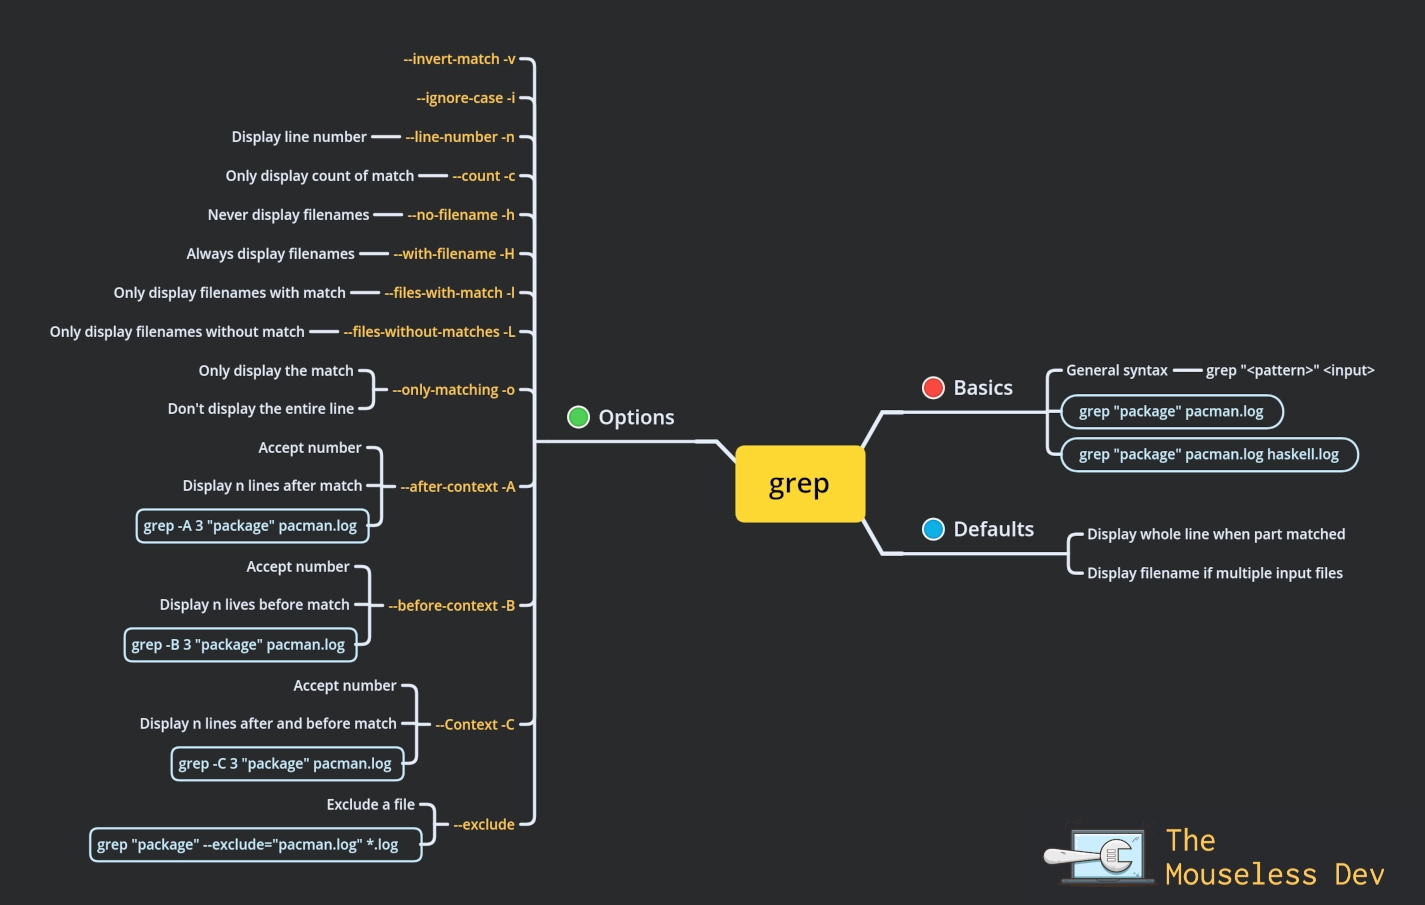
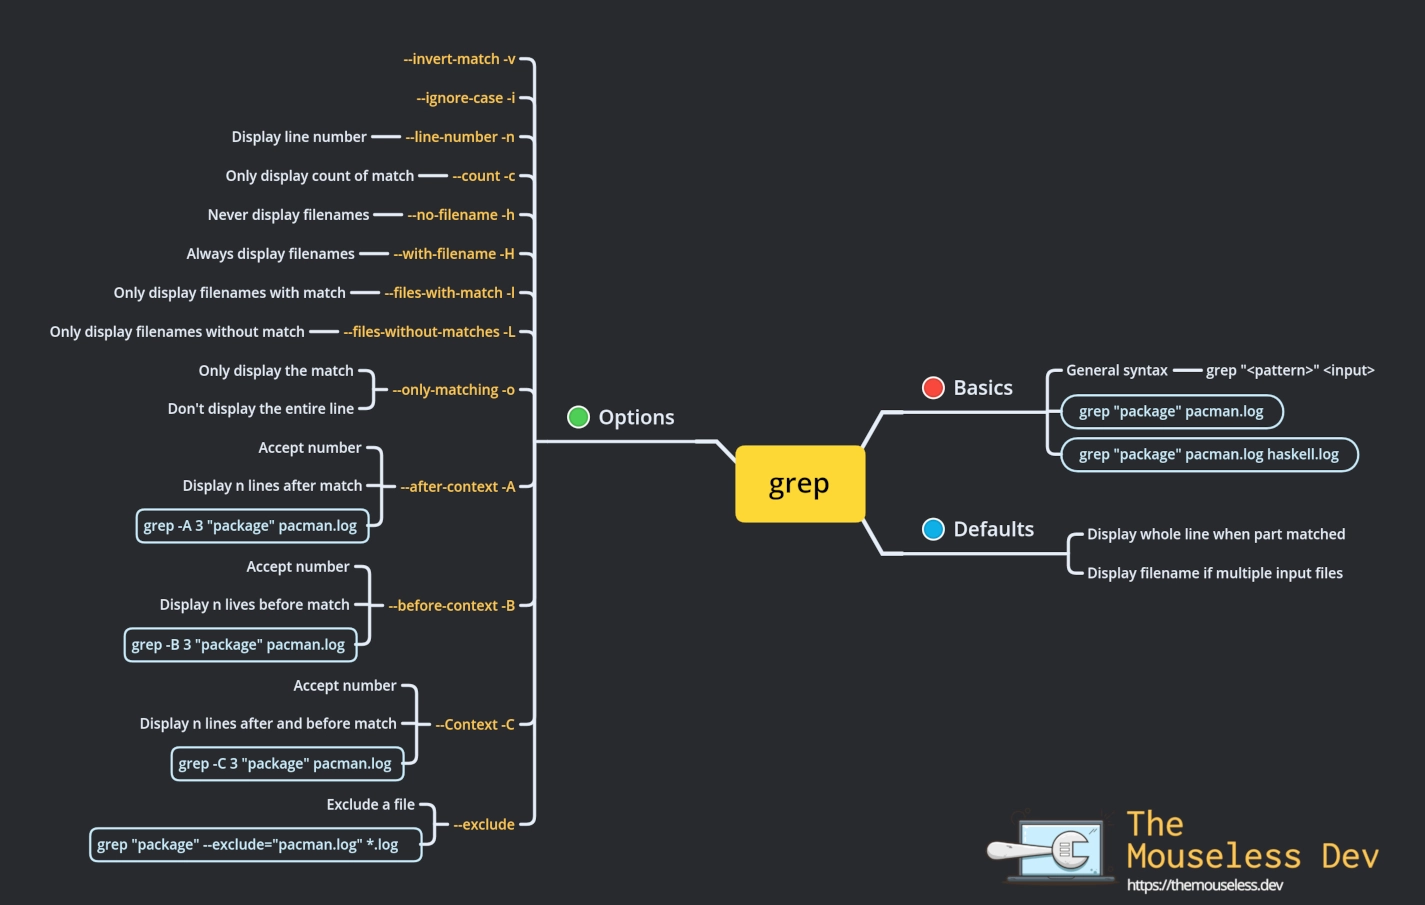
Adjust grep article

Changed region(s): [[0.6793, 0.8972, 0.9881, 0.9901]]

diff --git a/archives/cross_posting/dev.to/grep-basics-mouseless.md b/archives/cross_posting/dev.to/grep-basics-mouseless.md
@@ -1,0 +1,266 @@
+---
+title: The Basics of grep - Filtering All The Content You Want
+published: false
+description: The basics of grep : output line numbers, filenames, number of matches, or even inverting matches... and more!
+tags: #mouseless #commandline #productivity
+cover_image: https://themouseless.dev/images/2021/grep/grep.png
+canonical_url: https://themouseless.dev/posts/grep-basics-mouseless/
+------
+
+The tool grep is a fantastic CLI (Command-Line Interface) allowing you to filter any *pattern* for a given *input*, including a file.
+
+To know if you have GNU grep, you can run in your terminal `grep --version`. If you don't have GNU grep, I would recommend installing it.
+
+This article is a summary of the following video I made. I would recommend you to watch it first, it's more complete with many examples and exercises:
+
+{% youtube SEkdPKcws3s %}
+
+If you find the videos I have on this channel helpful, don't hesitate to subscribe and to like them. It would then appear to other Youtubers to help even more!
+
+I also recommend you to: 
+
+1. Download [these files](https://github.com/Phantas0s/mouseless-dev-youtube/tree/master/01_grep)
+2. Fire up your beautiful shell
+3. Try each command you'll see in this article. 
+
+You won't learn much if you only read (or watch a video) passively.
+
+In this article we'll see together how to:
+
+* Colorize grep output
+* Case insensitive patters
+* Output lines with pattern matched
+* Output lines with pattern not matched
+* Output only the pattern matched
+* Output lines numbers
+* Output the match count
+* Hiding filenames
+* Always output filenames
+* Only output filenames
+* Only output filenames without matches
+* Output lines after the match
+* Output lines before the match
+* Output lines before and after the match
+* Excluding files
+* Piping grep
+* Summary: a mindmap of grep
+* Using grep in practice
+
+## Colors!
+
+I would advise you to colorize the output of grep using the option `--color` as following: 
+
+```bash
+grep --color=auto
+```
+
+But it's a pain to use this option each time you use grep. You can define an alias to make grep always colorful:
+
+```bash
+alias grep="grep --color=auto"
+```
+
+It's now a firework machine.
+
+## Output Lines With Pattern Matched
+
+Here's the general way to use grep:
+
+```bash
+grep "<pattern>" <input>
+```
+
+The `<pattern>` is a regular expression and the `<input>` can be what you enter in your terminal or a file. For example:
+
+```bash
+grep "package" pacman.log
+```
+
+You'll see this output:
+
+![Displaying lines with pattern matched](https://themouseless.dev/images/2021/grep/01_displaying_lines_pattern_matched.webp)
+
+You can see that the pattern `package` is part of these two lines; that's why they are output. Incredible! It would be nice if we could do that in our daily life. I already know what words I would filter.
+
+Note that the pattern wouldn't be colorized without the option `--color` set to `auto` as we saw above.
+
+## Output Lines With Pattern Not Matched
+
+If you want to in`v`ert the match, that is, only output the lines which *don't match* the pattern, you can use the option `-v` as follows:
+
+```bash
+grep -v "package" pacman.log
+```
+
+This time, you'll output all the file except the two lines containing the pattern `package`.
+
+## Output Only The Pattern Matched
+
+It can be useful to `o`nly output the match and not the whole line. You can do that with the option `-o`
+
+```bash
+grep -o "package" pacman.log
+```
+
+## Output Line Numbers
+
+If you to output the lines and the line `n`umbers, you need to use the option `-n`. For example:
+
+```bash
+grep -n "package" pacman.log
+```
+
+The line numbers will be prefixed to each line of the output.
+
+## Only Output Match Count
+
+You can also *only* output the match `c`ount with the option `-c`:
+
+```bash
+grep -c "package" pacman.log
+```
+
+## Case Insensitive Patterns
+
+By default, to match a pattern, you'll need to know what letters of the pattern are uppercase or lowercase. You can match your pattern without worrying about the case if you use the option `-i`:
+
+```bash
+grep -i "pacman" *.log
+```
+
+You can see that grep can filter more than one file. The glob `*` has a special meaning: it represents 0 or more character. Said differently, we want every file in our working directory ending up with `.log`. The following is equivalent:
+
+```bash
+grep -i "pacman" haskell.log pacman.log
+```
+
+## Filenames
+
+### Hiding Filenames
+
+As you saw, grep will output the filenames of the occurrence matches if you use more than one file as input. To `h`ide them, you can use the option `-h`. An example:
+
+```bash
+grep -h "package" *.log
+```
+
+### Always Output Filenames
+
+If you want to output the filename where there's a match, even if you gave only one file as input, you can use the option `-H`. As usual, here's an example you can run in your terminal:
+
+```bash
+grep -H "package" pacman.log
+```
+
+For some option, the uppercase variant will do the inverse of the lowercase one, like `-h` and `-H`.
+
+### Only Output Filenames
+
+To only output the filenames where the patterns match, you can use the option `-l`:
+
+```bash
+grep -l "package" *.log
+```
+
+### Only Output Filenames Without Matches
+
+You might have guessed it: the option `-L` only output the filename where the pattern *doesn't* match:
+
+```bash
+grep -L "package" *.log
+```
+
+## Output Lines Around The Match
+
+Outputing the lines before or after your match can be useful to get a bit of *context* and understand the result of your filtering.
+
+### Output Lines After The Match
+
+To output a variable number of lines `A`fter the line with a match, you can use the option `-A`:
+
+```bash
+grep -A 3 "package" pacman.log
+```
+
+### Output Lines Before The Match
+
+Similarly, if you want to output the lines `B`efore the match, you can use the option `-B`:
+
+```bash
+grep -B 3 "package" pacman.log
+```
+
+### Output Lines Before And After the Match
+
+You can even output some lines before *and* after the match with the option `-C`:
+
+```bash
+grep -C 3 "package" pacman.log
+```
+
+In this example, the second match of `package` won't output the 3 lines after because it's the end of the file after the line containing the match.
+
+Did you see the pattern? `A`fter, `B`efore, `C`ontext: it's `ABC`!
+
+## Excluding Files
+
+We always gave the files we wanted to filter to grep's input, but what if we want everything *except* a couple of files? For that, we can use the option `--exclude`:
+
+```bash
+grep "package" --exclude="pacman.log" *.log
+```
+
+## Piping grep
+
+You can directly give the output of a command to the input of grep if you want to filter it. Actually, you can do that with every CLI accepting an input using pipes. 
+
+For example, if I run `ps` (a CLI to output the processes running on my machine), I get this:
+
+```
+    PID TTY          TIME CMD
+   2026 pts/9    00:11:36 nvim
+   2431 pts/11   00:01:11 hugo
+   2584 pts/10   00:00:01 tmuxp
+   3009 pts/18   00:00:01 nvim
+   3241 pts/20   00:00:17 taskell
+   3484 pts/22   00:00:11 taskell
+   3663 pts/21   00:00:00 nvim
+```
+
+What if I want only the lines containing the pattern `nvim`? I can do the following:
+
+```bash
+ps -a | grep "nvim"
+```
+
+It means that I give to the input of grep the output of the command `ps -a`. Here's the result:
+
+```
+   2026 pts/9    00:11:36 nvim
+   3009 pts/18   00:00:01 nvim
+   3663 pts/21   00:00:00 nvim
+```
+
+Pipes are one of the reason why the command line is so powerful: you can pipe small CLIs doing one thing and you'll have crazy results!
+
+## In a Nutshell: a Mindmap of grep
+
+![summary how to use grep in mind map](https://themouseless.dev/images/2021/grep/grep.png)
+## Using grep in Practice
+
+It's nice to learn all of that, but how can you use grep in real life? Here's a video showing you a problem I had and I solved nicely using grep and other CLIs:
+
+{% youtube N2YsWcyEpr8 %}
+
+---------
+
+Interested in building a Mouseless Development Environment?
+
+[![building your mouseless development environment](https://themouseless.dev/images/small_cover.webp)](https://themouseless.dev)
+
+Switching between the keyboard and the mouse costs cognitive energy. This book will guide you step by step to set up a Linux-based development environment that keeps your hands on your keyboard.
+
+Take the brain power you've been using to juggle input devices and focus it where it belongs: on what you create.
+
+---------
+

diff --git a/content/posts/grep-basics-mouseless.md b/content/posts/grep-basics-mouseless.md
@@ -2,9 +2,11 @@
 date = "2021-04-01"
 draft = false
 title = "grep: The Basics"
-image = "/images/2021/grep/grep.png"
-
-description = "How to use grep: matching, invert match, output line numbers, file name, number of matches... and more!"
+aliases = [
+    "grep-beginner-mouseless",
+]
+image = "/images/2021/grep/grep.jpg"
+description = "The basics of grep : output line numbers, filenames, number of matches, or even inverting matches... and more!"
 +++
 
 The tool grep is a fantastic CLI (Command-Line Interface) allowing you to filter any *pattern* for a given *input*, including a file.
@@ -245,7 +247,7 @@ Pipes are one of the reason why the command line is so powerful: you can pipe sm
 
 ## In a Nutshell: a Mindmap of grep
 
-[{{< picture src="/images/2021/grep/grep.png" webp="/images/2021/grep/grep.webp" alt="mindmap of grep" >}}](/images/2021/grep/grep.png)
+[{{< picture src="/images/2021/grep/grep.jpg" webp="/images/2021/grep/grep.webp" alt="mindmap of grep" >}}](/images/2021/grep/grep.jpg)
 
 ## Using grep in Practice
 
